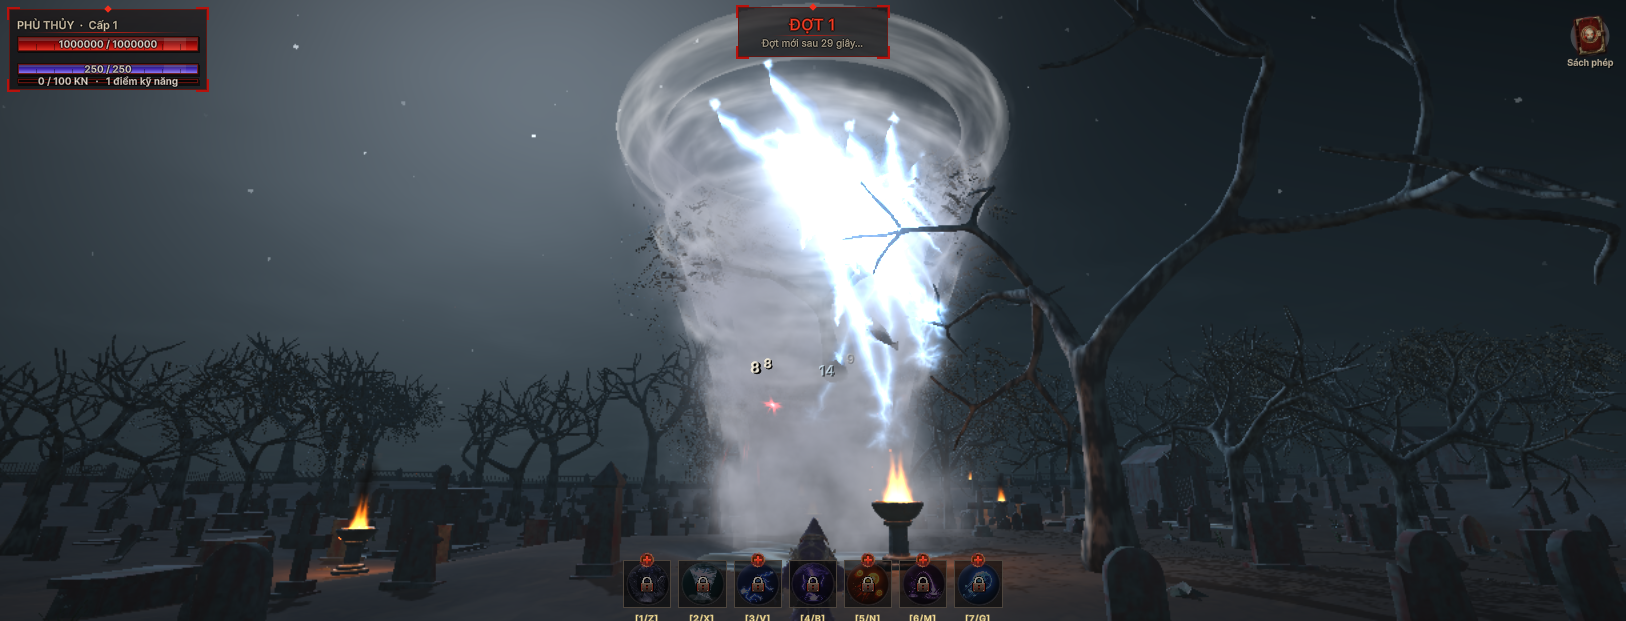
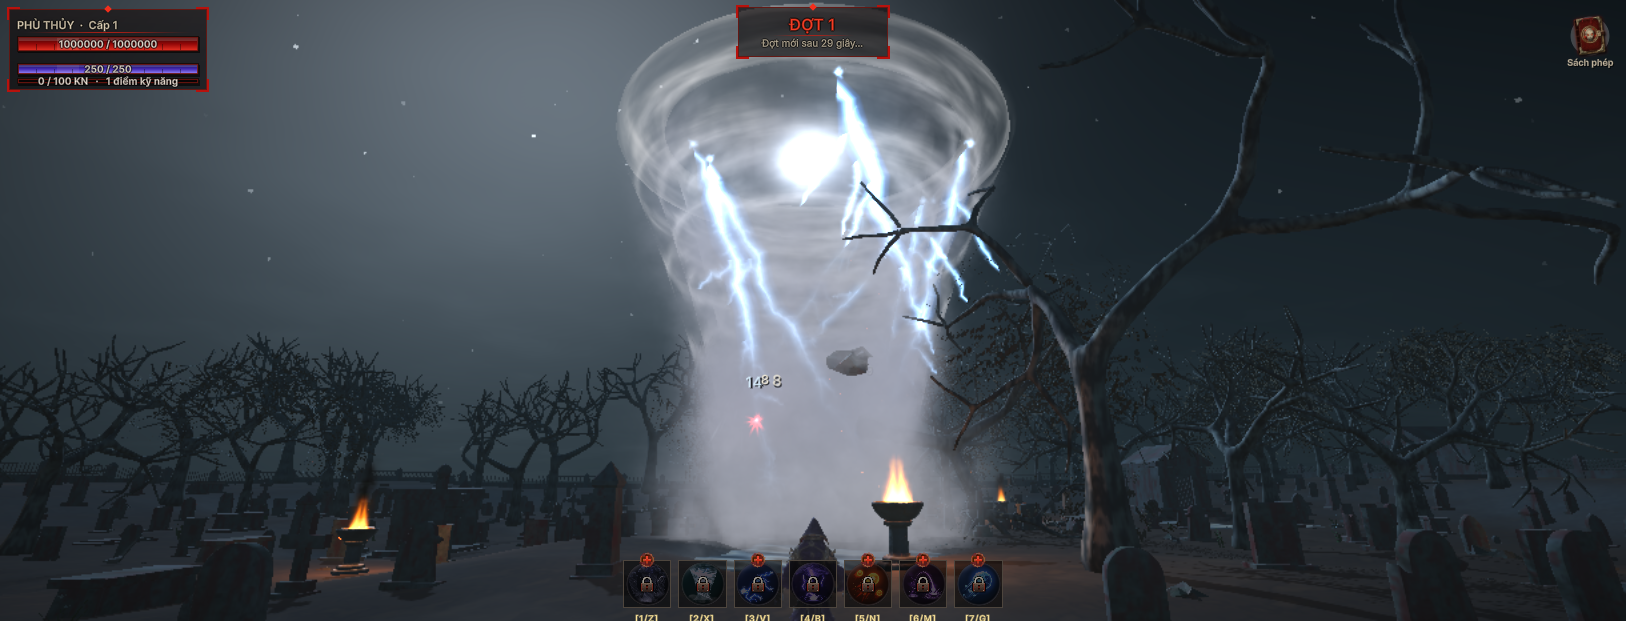
Loc xoay: than duoi day dac hon (lop BuiThanDuoi 80 hat/giay toi nua than + bui chan x2 = 80) - tong 240 hat/giay; menu 82 B5 dem hat nua than duoi so voi con loc cau hinh cu cung luot (x2,36)

Changed region(s): [[0.369, 0.0306, 0.6458, 0.9179], [0.5535, 0.7955, 0.615, 0.8873], [0.492, 0.7649, 0.5228, 0.8261]]

diff --git a/Assets/Editor/ThuThanLocXoay.cs b/Assets/Editor/ThuThanLocXoay.cs
@@ -263,6 +263,21 @@ public static class ThuThanLocXoay
         if (ls.Count > 0) lech = ls[ls.Count / 2];
     }
 
+    /// <summary>Dem hat dang song co do cao (so voi goc loc) tu 0 den caoToi.</summary>
+    static int DemDuoi(ParticleSystem ps, Transform goc, float caoToi)
+    {
+        var hat = new ParticleSystem.Particle[ps.particleCount];
+        int n = ps.GetParticles(hat), dem = 0;
+        bool cucBo = ps.main.simulationSpace == ParticleSystemSimulationSpace.Local;
+        for (int i = 0; i < n; i++)
+        {
+            Vector3 w = cucBo ? ps.transform.TransformPoint(hat[i].position) : hat[i].position;
+            float y = goc.InverseTransformPoint(w).y;
+            if (y >= 0f && y <= caoToi) dem++;
+        }
+        return dem;
+    }
+
     static float Goc(Vector3 v) { return Mathf.Atan2(v.z, v.x) * Mathf.Rad2Deg; }
     static float Boc(float d) { while (d > 180f) d -= 360f; while (d < -180f) d += 360f; return d; }
 
@@ -436,7 +451,45 @@ public static class ThuThanLocXoay
         // DOI CHUNG: lop moi phai len cao hon han bui chan cu (lan dau dat nguong tuyet doi 40% / 60% than - bui chan cu do duoc
         // 48% / 62%: nguong ay khong noi gi ve viec phep do phan biet duoc hai lop; so sanh tuong doi moi la dieu can chung minh)
         Kiem(h90L > 1.4f * h90C, "DOI CHUNG: bui chan cu len cao ngang lop moi - phep do khong phan biet duoc");
-        Kiem(Mathf.Abs(tocLen + tocChan - 120f) < 0.5f, "tong bui Loc xoay khong phai 120 hat/giay (x3)");
+        // B5 (29/09/2026, nguoi dung khoanh THAN DUOI tren anh: "khoi cuon len va bui day dac hon nua"; chon them lop than duoi + bui
+        // chan x2): lop BuiThanDuoi chi toi nua than, bui chan 80. DOI CHUNG CUNG LUOT: con loc thu hai dat ve CAU HINH CU (tat
+        // BuiThanDuoi, bui chan 40 / 120) - dem hat that o NUA THAN DUOI ca hai con.
+        ParticleSystem psDuoi = null;
+        foreach (var ps in loc.GetComponentsInChildren<ParticleSystem>(true)) if (ps.name == "BuiThanDuoi") psDuoi = ps;
+        float tocDuoi = psDuoi != null ? psDuoi.emission.rateOverTime.constant : 0f;
+        float h90D, hMaxD, lechD; int nD;
+        DoBuiTheoCao(psDuoi, loc.transform, 0.5f * caoLx, vo, out h90D, out hMaxD, out lechD, out nD);
+        Ghi(string.Format("B5. lop than duoi: {0} hat, cao 90% {1:F2} m, cao nhat {2:F2} m (nua than {3:F1}), lech ban kinh {4:P0}; so hat/giay chan {5:F0} + cuon len {6:F0} + than duoi {7:F0} = {8:F0}",
+            nD, h90D, hMaxD, 0.5f * caoLx, lechD, tocChan, tocLen, tocDuoi, tocChan + tocLen + tocDuoi));
+        Kiem(psDuoi != null && nD > 100, "khong co lop khoi than duoi tren con loc that");
+        Kiem(h90D > 0.7f * 0.5f * caoLx && hMaxD < 0.75f * caoLx, "lop than duoi khong nam o nua than duoi");
+        Kiem(lechD < 0.35f, "lop than duoi khong om theo than");
+        Kiem(Mathf.Abs(tocChan - 80f) < 0.5f && psChanDo.main.maxParticles == 240, "bui chan Loc xoay khong gap doi (80 / 240)");
+        Kiem(Mathf.Abs(tocChan + tocLen + tocDuoi - 240f) < 0.5f, "tong bui Loc xoay khong phai 240 hat/giay");
+        {
+            var loc2 = ThaLoc(tam + huong * 40f, maskEnemy);
+            yield return null; yield return null;
+            ParticleSystem d2 = null, c2 = null;
+            foreach (var ps in loc2.GetComponentsInChildren<ParticleSystem>(true))
+            {
+                if (ps.name == "BuiThanDuoi") d2 = ps;
+                if (ps.name == "BuiChan") c2 = ps;
+                var m = ps.main; m.cullingMode = ParticleSystemCullingMode.AlwaysSimulate;
+            }
+            foreach (var ps in loc.GetComponentsInChildren<ParticleSystem>(true)) { var m = ps.main; m.cullingMode = ParticleSystemCullingMode.AlwaysSimulate; }
+            if (d2 != null) { var e = d2.emission; e.enabled = false; d2.Clear(); }
+            if (c2 != null) { var m = c2.main; m.maxParticles = 120; var e = c2.emission; e.rateOverTime = 40f; }
+            yield return new WaitForSeconds(4.5f);
+            int demMoi = 0, demCu = 0;
+            foreach (var ps in loc.GetComponentsInChildren<ParticleSystem>(true))
+                if (ps.name == "BuiChan" || ps.name == "BuiCuonLen" || ps.name == "BuiThanDuoi") demMoi += DemDuoi(ps, loc.transform, 0.5f * caoLx);
+            foreach (var ps in loc2.GetComponentsInChildren<ParticleSystem>(true))
+                if (ps.name == "BuiChan" || ps.name == "BuiCuonLen" || ps.name == "BuiThanDuoi") demCu += DemDuoi(ps, loc2.transform, 0.5f * caoLx);
+            Ghi(string.Format("B5. hat bui dang song o NUA THAN DUOI (0 - {0:F1} m): moi {1} / cau hinh cu cung luot {2} = x{3:F2}", 0.5f * caoLx, demMoi, demCu, (float)demMoi / Mathf.Max(1, demCu)));
+            Kiem(demCu > 50, "doi chung: con loc cau hinh cu khong co bui - phep dem vo nghia");
+            Kiem((float)demMoi / Mathf.Max(1, demCu) > 1.8f, "nua than duoi khong day dac hon ro (it nhat x1,8)");
+            Object.Destroy(loc2.gameObject);
+        }
 
         // ================= F. VUNG HUT =================
         float r7 = loc.FunnelRadiusAt(7f);

diff --git a/Assets/Scripts/Vfx/VfxLocXoayBlender.cs b/Assets/Scripts/Vfx/VfxLocXoayBlender.cs
@@ -256,15 +256,35 @@ public static partial class VfxFactory
     {
         if (loc == null) return;
         Transform hinh = null;
+        ParticleSystem buiChan = null;
+        bool coLen = false, coDuoi = false;
         foreach (var t in loc.GetComponentsInChildren<Transform>(true))
         {
-            if (t.name == "BuiCuonLen") return;
+            if (t.name == "BuiCuonLen") coLen = true;
+            if (t.name == "BuiThanDuoi") coDuoi = true;
             if (t.name == "LocXoayHinh") hinh = t;
+            if (t.name == "BuiChan") buiChan = t.GetComponent<ParticleSystem>();
         }
         if (hinh == null) return;                                   // hinh cu (BuildTornadoCu) - khong co than Blender
-        BuiCuonLenTheoThan(hinh, "BuiCuonLen", CaoThanLocXoay * scale, h => 0.95f * BanKinhLocXoay(h, scale), TocBuiCuonLenLocXoay,
-                           3.0f, 3.6f, 2.2f * scale, 4.2f * scale, 2.1f, MauBuiXamToi, MauBuiXamSang);
+        if (!coLen)
+            BuiCuonLenTheoThan(hinh, "BuiCuonLen", CaoThanLocXoay * scale, h => 0.95f * BanKinhLocXoay(h, scale), TocBuiCuonLenLocXoay,
+                               3.0f, 3.6f, 2.2f * scale, 4.2f * scale, 2.1f, MauBuiXamToi, MauBuiXamSang);
+        if (coDuoi) return;
+        // THAN DUOI DAY DAC HON (nguoi dung 29/09/2026 khoanh vung than duoi tren anh, chon: them lop khoi than duoi + bui chan x2,
+        // chi tang so hat - do duc giu): lop BuiThanDuoi cung kieu om than nhung chi bay toi NUA THAN (7,5 m), cham hon (~2,8 m/s)
+        BuiCuonLenTheoThan(hinh, "BuiThanDuoi", 0.5f * CaoThanLocXoay * scale, h => 0.95f * BanKinhLocXoay(h, scale), TocBuiThanDuoiLocXoay,
+                           2.4f, 3.0f, 2.2f * scale, 4.2f * scale, 2.1f, MauBuiXamToi, MauBuiXamSang);
+        // Bui chan x2 (40 -> 80 hat/giay, tran 120 -> 240). Dat o day chu khong trong BuildLocXoay: hinh trong game lay tu PREFAB
+        // (so 40 nuong san) - mot cho phu ca prefab lan hinh dung bang code. BuildLocXoay / prefab van ghi 40 (goc cua ham chung).
+        if (buiChan != null)
+        {
+            var m = buiChan.main; m.maxParticles = Mathf.RoundToInt(120 * HeSoBuiChanLocXoay);
+            var e = buiChan.emission; e.rateOverTime = 40f * HeSoBuiChanLocXoay;
+        }
     }
+
+    /// <summary>Lop khoi THAN DUOI Loc xoay (hat/giay) va he so bui chan (29/09/2026): tong bui 80 chan + 80 cuon len + 80 than duoi = 240.</summary>
+    public const float TocBuiThanDuoiLocXoay = 80f, HeSoBuiChanLocXoay = 2f;
 
     /// <summary>Dat 4 dam bui ngau nhien cua anh BuiXam 2x2, khong chay khung (moi hat mot dam).</summary>
     public static void DatKhungBuiXam(ParticleSystem ps)

diff --git a/Assets/Editor/ThuGioLoc.cs b/Assets/Editor/ThuGioLoc.cs
@@ -695,7 +695,9 @@ public static class ThuGioLoc
                     Ghi(string.Format("C. bui cuon Gio loc {0:F0} hat/giay (tran {1}) / bui chan Loc xoay that {2:F0} (tran {3}) = x{4:F2} / x{5:F2}",
                         rG, mG, rL, mL, rG / Mathf.Max(1e-3f, rL), (float)mG / Mathf.Max(1, mL)));
                     Kiem(Mathf.Abs(rG / rL - 2f) < 0.01f && mG == 2 * mL, "bui cuon Gio loc khong day gap doi bui Loc xoay");
-                    Kiem(Mathf.Abs(rL - 40f) < 0.01f && mL == 120, "bui chan Loc xoay bi doi theo (chi Gio loc day them)");
+                    // (29/09/2026: locThat dung bang BuildLocXoay - chua qua Tornado.Start, noi bui chan Loc xoay nhan doi len 80;
+                    //  so 40 / 120 day la GOC cua ham chung BuiXamChanLoc, Gio loc van gap doi goc ay)
+                    Kiem(Mathf.Abs(rL - 40f) < 0.01f && mL == 120, "bui chan goc (BuiXamChanLoc) bi doi (Gio loc x2 tinh tren goc 40)");
                 }
                 Object.Destroy(locThat);
             }

diff --git a/HUONG-DAN.md b/HUONG-DAN.md
@@ -8944,6 +8944,22 @@ Người dùng chọn:
 - Menu 71c (độ đen thân Gió lốc) phải tính cả lớp mới, ở chỗ tắt bụi lẫn chỗ dựng bản đối chứng ×2,5. Bỏ sót thì lớp ấy giữ ×2,25 ở CẢ
   HAI bản và pha loãng chênh lệch: đo ra ×0,98 thay vì ×0,91 → báo lỗi oan. Sửa xong: cả cơn lốc đêm ×0,88, ngày ×0,90 so với bản
   ×2,5; thân vẫn nổi trên nền đêm ×1,30 so với bản chìm; bụi chân dày ×1,92. **Menu 71c: 0 lỗi.**
+
+**Lốc xoáy — thân dưới dày đặc hơn nữa** (cùng ngày; người dùng gửi ảnh khoanh phần THÂN DƯỚI: "khói cuốn lên và bụi dày đặc hơn nữa").
+Người dùng chọn: thêm lớp khói thân dưới + bụi chân ×2, **chỉ tăng số hạt** (độ đục từng hạt giữ nguyên).
+- Lớp `BuiThanDuoi`: cùng kiểu ôm thân như `BuiCuonLen`, nhưng chỉ bay tới NỬA THÂN (7,5 m), chậm hơn (sống 2,4–3,0 s), 80 hạt/giây.
+- Bụi chân 40 → **80 hạt/giây** (trần 120 → 240).
+- Cả hai đặt trong `DamBaoBuiCuonLenLocXoay` (gọi từ `Tornado.Start`), một chỗ phủ cả prefab lẫn hình dựng bằng code. Prefab và
+  `BuildLocXoay` vẫn ghi 40 — đó là số GỐC của hàm chung (Gió lốc gấp đôi số gốc ấy, menu 71 vẫn so với 40).
+- **Lốc xoáy tổng: 80 chân + 80 cuộn lên tận đỉnh + 80 thân dưới = 240 hạt/giây.** Phần trên thân giữ nguyên.
+
+**Menu 82: 0 lỗi.**
+- B5: lớp thân dưới 216 hạt, 90% dưới 6,82 m, cao nhất 8,34 m (nửa thân 7,5), lệch bán kính 5%.
+- **Đối chứng CÙNG LƯỢT:** thả con lốc thứ hai, đưa về cấu hình cũ (tắt `BuiThanDuoi`, bụi chân 40 / 120), chờ 4,5 s, đếm hạt thật ở
+  0–7,5 m của cả hai con. Mới **526** / cũ **223** = **×2,36** (ngưỡng ×1,8).
+- B4 giữ: lớp cuộn lên tận đỉnh, 90% tới 13,37 m, lệch 5%.
+
+Ảnh: `PlayTestShots/thanlocxoay_0_dem_can.png`.
 - ⚠ Lần chạy đầu tôi sửa file phép thử trong lúc 71c đang Play. Unity nạp lại assembly giữa chừng, coroutine chết, kẹt Play ~15 phút.
   Đã ghi vào bộ nhớ: không ghi file dưới `Assets/` khi phép thử đang chạy.
 - Lỗi "Particle Velocity curves must all be in the same mode" tràn log có từ ĐẦU phiên Unity (hạt `Grit` của Gió lốc, lỗi cũ đã biết),

diff --git a/CLAUDE.md b/CLAUDE.md
@@ -307,8 +307,11 @@ Bảng đầy đủ nằm ở mục "Phần 4" trong `HUONG-DAN.md`.
   k(z); quỹ đạo vật bị cuốn + tia sét theo công thức mới; vùng hút giữ 5,184; vòng bụi chân 2,0 → 4,0 cả code lẫn prefab),
   thân 15 m + vành → 15,72 m). ⚠ **29/09/2026 BỤI CUỘN LÊN TẬN ĐỈNH** (cả Lốc xoáy lẫn Gió lốc, người dùng): lớp mới `BuiCuonLen`
   (`VfxFactory.BuiCuonLenTheoThan`) sinh trên vòng ở chân, bay lên đều tới đỉnh trong một đời hạt, dạt ra theo ĐÚNG công thức bán kính
-  thân (vận tốc toả = dr/dt), CỤC BỘ — Lốc xoáy 80 hạt/giây (+ 40 bụi chân = 120), gắn LÚC CHẠY trong `Tornado.Start`
-  (`DamBaoBuiCuonLenLocXoay` — hình trong game lấy từ prefab); Gió lốc 40 (+ 80 = 120 mỗi cơn). ⚠ Vận tốc toả (radial) của Unity tính
+  thân (vận tốc toả = dr/dt), CỤC BỘ — Lốc xoáy 80 hạt/giây, gắn LÚC CHẠY trong `Tornado.Start`
+  (`DamBaoBuiCuonLenLocXoay` — hình trong game lấy từ prefab); Gió lốc 40 (+ 80 = 120 mỗi cơn). Cùng ngày người dùng khoanh THÂN DƯỚI
+  Lốc xoáy trên ảnh ("dày đặc hơn nữa"): thêm lớp `BuiThanDuoi` 80 hạt/giây chỉ tới nửa thân + bụi chân ×2 (40 → 80, trần 240 — đặt
+  trong `DamBaoBuiCuonLenLocXoay`, prefab/`BuildLocXoay` vẫn ghi 40 là số gốc) → **Lốc xoáy tổng 240 hạt/giây**; nửa thân dưới ×2,36 hạt
+  so với cấu hình cũ đo cùng lượt (menu 82 B5). ⚠ Vận tốc toả (radial) của Unity tính
   theo hướng **3 CHIỀU** từ tâm → đẩy hạt vọt qua đỉnh; dời tâm (`orbitalOffsetY`) lên theo độ cao hạt để toả nằm ngang. ⚠ Vòng phun
   `Circle` mặc định **ĐỨNG trong mặt XY**: bụi chân Lốc xoáy (thế giới) từng phun trên vòng đứng, nửa số hạt sinh dưới đất — nay xoay
   −90° cả code lẫn prefab. Menu 82 B3b/B4, menu 71 mục C đo vị trí thật từng hạt. Ảnh gió `GioVo0–3`,
